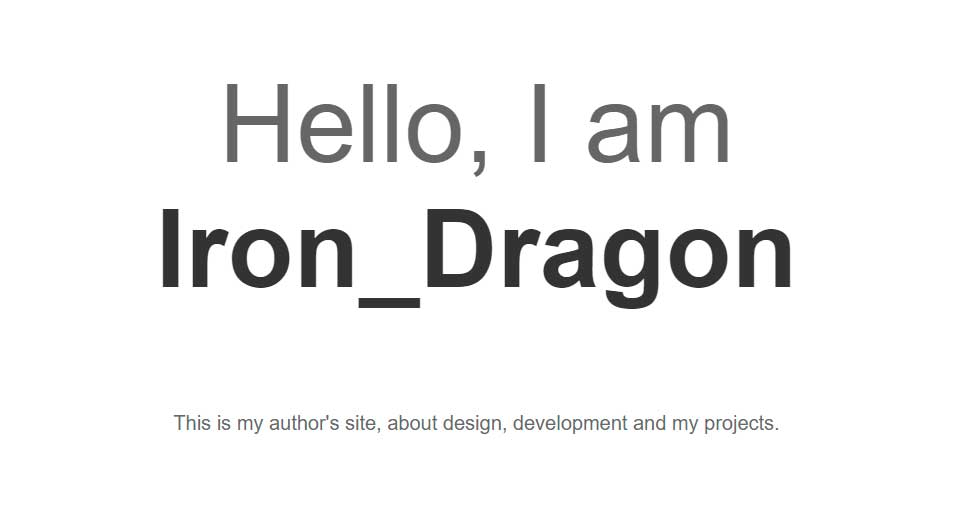
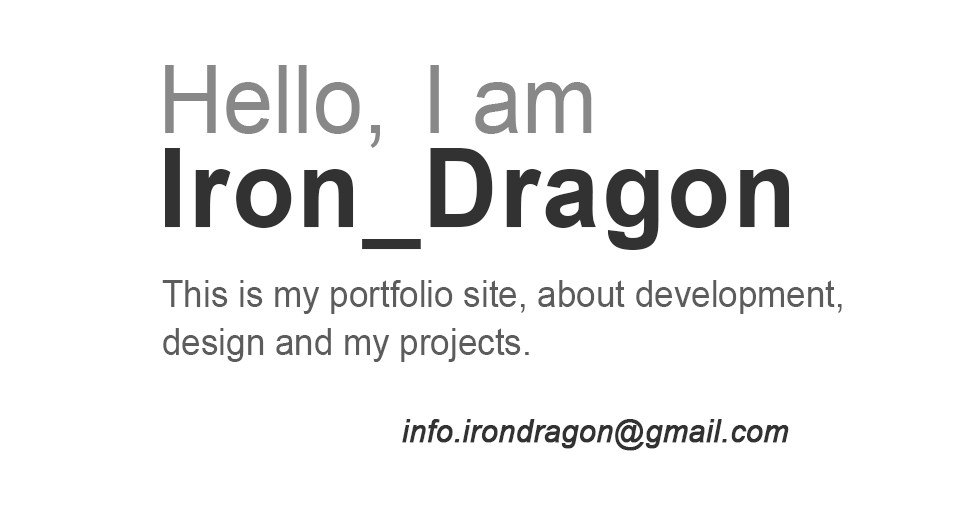
Fix and add Cosmetic changes

Changed region(s): [[0.1545, 0.1179, 0.8651, 0.6189], [0.1854, 0.7957, 0.8342, 0.8841], [0.1545, 0.6483, 0.5561, 0.7073]]

diff --git a/style.css b/style.css
@@ -103,7 +103,7 @@ div.img {
 
 main {
     position: relative;
-    padding-top: 138px;
+    padding-top: 50px;
 }
 
 .wrap {
@@ -202,7 +202,11 @@ section .wrap {
 .fMsg, .fCtrl {
     width: 100%;
 }
-
+.fCtrl a {
+    float: right;
+    font-style: italic;
+    line-height: 40px;
+}
 .thx-form { 
    /* opacity: 0;
    display: none;
@@ -212,12 +216,18 @@ section .wrap {
    margin-bottom: 1.2em;
 }
 
+button {
+    padding: 10px;
+    min-height: 3em;
+    cursor: pointer;
+}
 form input,
 form select,
 form textarea {
     width: 100%;
     min-height: 3em;
     padding: 10px;
+    font-family: inherit;
     resize: none;    
 }
 
@@ -225,8 +235,9 @@ form textarea {
     height: 400px;
     overflow: hidden;
     position: relative;
-    background: url('map.png') center center no-repeat;
+    background: url('map.jpg') center center no-repeat;
     background-size: cover;
+    cursor: zoom-in;
 }
 .contact__map img {    
     display: block;

diff --git a/index.html b/index.html
@@ -140,7 +140,7 @@
 				<div><textarea id="gfrm_msg" name="entry.1283908172" placeholder="Enter text..." rows="3"></textarea></div>
 			</div>
 			<div class="fCtrl">
-				<button type="submit">Submit</button> <button class="bClr" type="reset">Clear form</button>    
+				<button type="submit">Submit</button> <button class="bClr" type="reset">Clear form</button> <a href="mailto:info.irondragon@gmail.com">info.irondragon@gmail.com</a>    
 			</div>        
 			</form>
 

diff --git a/SiteScenario.js b/SiteScenario.js
@@ -73,7 +73,8 @@ document.addEventListener("DOMContentLoaded",function(){
 	},3000);   	 
 });
 
-document.querySelector(".gform").addEventListener("submit",function(){	
+document.querySelector(".gform").addEventListener("submit",function(){
+	gtag('event', 'contact');		
 	app.gfThx = true;
 });
 
